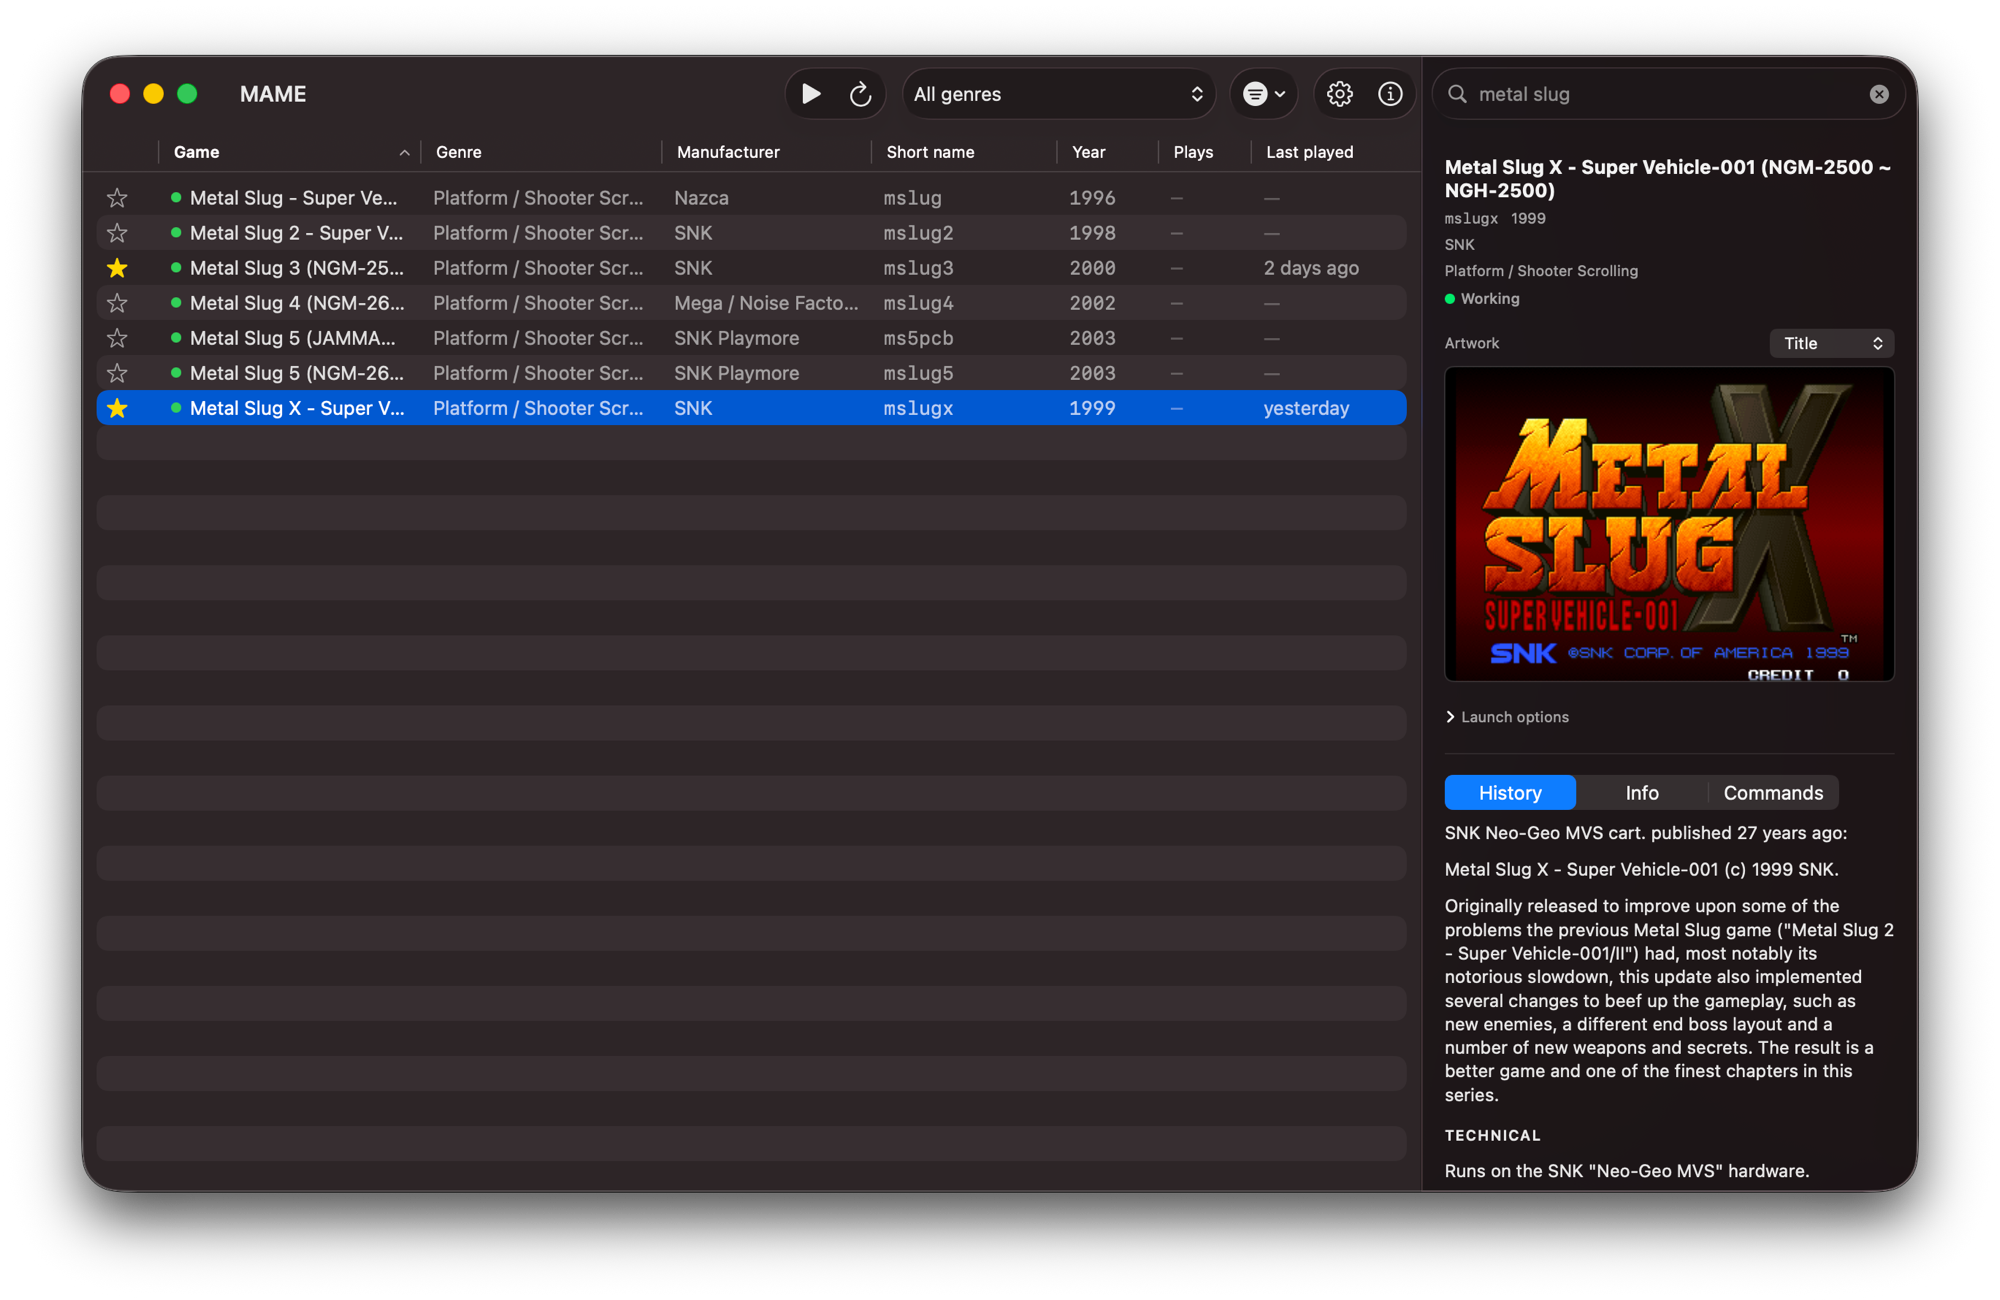
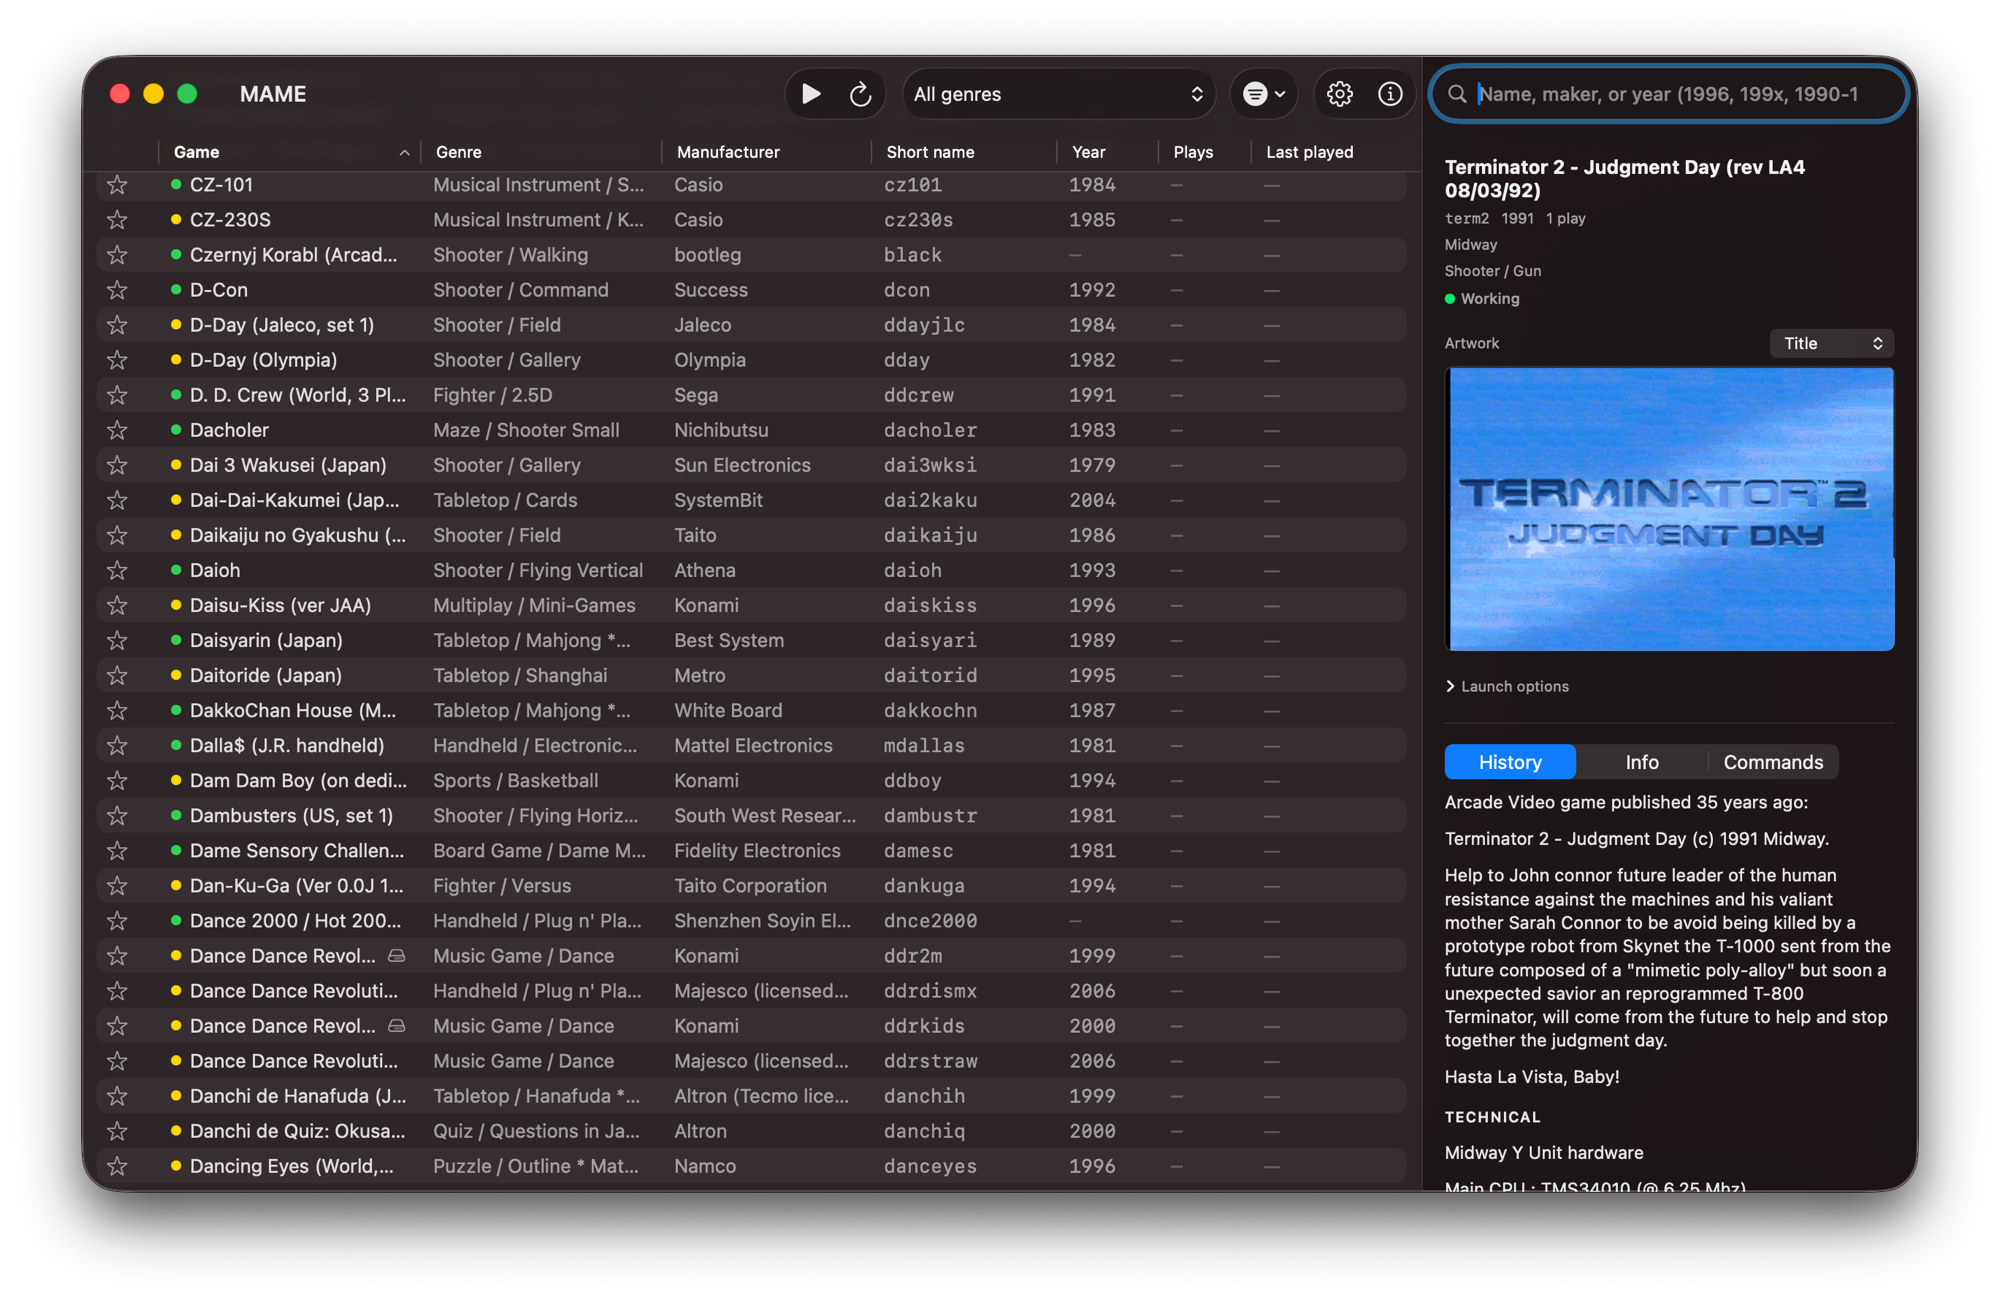
Bump version to 0.3.6, package as DMG, update README screenshot

Changed region(s): [[0.031, 0.1231, 0.961, 0.9231], [0.713, 0.0308, 0.961, 0.2154], [0.62, 0.1846, 0.682, 0.2154]]

diff --git a/MAMEFrontend/LibraryModel.swift b/MAMEFrontend/LibraryModel.swift
@@ -26,6 +26,9 @@ final class LibraryModel {
     private(set) var categories: [String] = []     // distinct genre categories (cached)
     private(set) var isLoading = false
     private(set) var errorMessage: String?
+    private(set) var enrichDone = 0
+    private(set) var enrichTotal = 0
+    var isEnriching: Bool { enrichTotal > 0 && enrichDone < enrichTotal }
     var launchError: LaunchFailure?
 
     // Reference-text state, keyed by tab
@@ -72,6 +75,34 @@ final class LibraryModel {
 
     // MARK: - Display list
 
+    /// A year query: exact ("1996"), decade ("199x" / "1990s"), or range
+    /// ("1990-1995"). Nil when the text isn't year-like, in which case the
+    /// search is a plain text match.
+    static func parseYearQuery(_ text: String) -> ClosedRange<Int>? {
+        let q = text.trimmingCharacters(in: .whitespaces).lowercased()
+
+        // Range: 1990-1995
+        let parts = q.split(separator: "-", maxSplits: 1).map(String.init)
+        if parts.count == 2,
+           let lo = Int(parts[0]), let hi = Int(parts[1]),
+           isYear(lo), isYear(hi), lo <= hi {
+            return lo...hi
+        }
+        // Decade: 199x / 1990s
+        if q.count == 4, q.hasSuffix("x"), let decade = Int(q.dropLast()) {
+            let base = decade * 10
+            if isYear(base) { return base...(base + 9) }
+        }
+        if q.count == 5, q.hasSuffix("s"), let base = Int(q.dropLast()), isYear(base), base % 10 == 0 {
+            return base...(base + 9)
+        }
+        // Exact: 1996
+        if q.count == 4, let year = Int(q), isYear(year) { return year...year }
+        return nil
+    }
+
+    private static func isYear(_ value: Int) -> Bool { value >= 1970 && value <= 2035 }
+
     /// Rebuilds `displayGames` from the current filters + sort. Called only when
     /// something actually changes — never per keystroke (search is debounced).
     @MainActor
@@ -83,8 +114,12 @@ final class LibraryModel {
         if hideNonGames      { result = result.filter { !$0.isNonGame } }
         if let category = genreFilter { result = result.filter { $0.category == category } }
         if !appliedSearch.isEmpty {
-            let needle = appliedSearch.lowercased()
-            result = result.filter { $0.searchKey.contains(needle) }
+            if let years = Self.parseYearQuery(appliedSearch) {
+                result = result.filter { years.contains($0.year) }
+            } else {
+                let needle = appliedSearch.lowercased()
+                result = result.filter { $0.searchKey.contains(needle) }
+            }
         }
         result.sort(using: sortOrder)
         displayGames = result
@@ -194,57 +229,87 @@ final class LibraryModel {
     private func enrichMeta(for names: [String], runner: MAMERunner) async {
         let chunkSize = 300
         var index = 0
+        enrichTotal = names.count
+        enrichDone = 0
+        defer { enrichTotal = 0; enrichDone = 0 }
+
         while index < names.count {
             let chunk = Array(names[index..<min(index + chunkSize, names.count)])
             index += chunkSize
             do {
                 let fetched = try await runner.meta(for: chunk)
-                guard !fetched.isEmpty else { continue }
-                metaCache.merge(fetched) { _, new in new }
-                applyMeta(fetched)
+                if !fetched.isEmpty {
+                    metaCache.merge(fetched) { _, new in new }
+                    applyMeta(fetched)
+                }
             } catch {
                 // Non-fatal.
             }
+            enrichDone = min(index, names.count)
         }
         saveMetaCache()
     }
 
-    /// Folds fetched metadata into games / displayGames / index in place.
+    /// Folds fetched metadata into games / displayGames / index. Games are
+    /// rebuilt through the initializer (not mutated) so precomputed keys —
+    /// notably `searchKey`, which includes the manufacturer — are regenerated.
     @MainActor
     private func applyMeta(_ fetched: [String: MachineMeta]) {
         func updated(_ g: Game) -> Game {
             guard let m = fetched[g.shortName] else { return g }
-            var n = g
-            if m.year > 0 { n.year = m.year }
-            if !m.manufacturer.isEmpty { n.manufacturer = m.manufacturer }
-            if !m.status.isEmpty { n.status = m.status }
-            n.isNonGame = m.nonGame
-            n.requiresDisk = m.requiresDisk
-            n.diskPresent = m.requiresDisk
-                ? isDiskPresent(shortName: n.shortName, parent: n.parent, diskNames: m.diskNames)
-                : false
-            return n
+            return Game(shortName: g.shortName,
+                        description: g.description,
+                        isUnknown: g.isUnknown,
+                        parent: g.parent,
+                        lastPlayed: g.lastPlayed,
+                        playCount: g.playCount,
+                        year: m.year > 0 ? m.year : g.year,
+                        genre: g.genre,
+                        manufacturer: m.manufacturer.isEmpty ? g.manufacturer : m.manufacturer,
+                        status: m.status.isEmpty ? g.status : m.status,
+                        isNonGame: m.nonGame,
+                        requiresDisk: m.requiresDisk,
+                        diskPresent: m.requiresDisk
+                            ? isDiskPresent(shortName: g.shortName, parent: g.parent,
+                                            diskNames: m.diskNames)
+                            : false)
         }
         games = games.map(updated)
         displayGames = displayGames.map(updated)
-        for (name, m) in fetched {
-            if var g = gamesByID[name] {
-                if m.year > 0 { g.year = m.year }
-                if !m.manufacturer.isEmpty { g.manufacturer = m.manufacturer }
-                if !m.status.isEmpty { g.status = m.status }
-                g.isNonGame = m.nonGame
-                g.requiresDisk = m.requiresDisk
-                g.diskPresent = m.requiresDisk
-                    ? isDiskPresent(shortName: name, parent: g.parent, diskNames: m.diskNames)
-                    : false
-                gamesByID[name] = g
-            }
+        for name in fetched.keys {
+            if let g = gamesByID[name] { gamesByID[name] = updated(g) }
         }
         // Newly-learned kinds/statuses may change a filtered view.
         if hideNonWorking || hideNonGames { recompute() }
     }
 
-    /// True if every required disk is found at `<path>/<machine or parent>/<disk>.chd`.
+    /// The best on-disk item to reveal for a game: its ROM archive, or its CHD
+    /// folder, searched across the ROM and CHD paths (falling back to the parent
+    /// set for clones that live inside a merged parent archive).
+    func fileURL(for game: Game) -> URL? {
+        let fm = FileManager.default
+        let paths = [romPath, chdPath].filter { !$0.isEmpty }
+        let names = [game.shortName] + (game.parent.map { [$0] } ?? [])
+
+        for path in paths {
+            let base = URL(fileURLWithPath: path)
+            for name in names {
+                // A CHD folder (kinst/kinst.chd) …
+                let dir = base.appendingPathComponent(name)
+                var isDir: ObjCBool = false
+                if fm.fileExists(atPath: dir.path, isDirectory: &isDir), isDir.boolValue {
+                    return dir
+                }
+                // … or a ROM archive.
+                for ext in ["zip", "7z"] {
+                    let archive = base.appendingPathComponent("\(name).\(ext)")
+                    if fm.fileExists(atPath: archive.path) { return archive }
+                }
+            }
+        }
+        return nil
+    }
+
     private func isDiskPresent(shortName: String, parent: String?, diskNames: [String]) -> Bool {
         guard !diskNames.isEmpty else { return true }
         let paths = [romPath, chdPath].filter { !$0.isEmpty }

diff --git a/MAMEFrontend/ContentView.swift b/MAMEFrontend/ContentView.swift
@@ -54,7 +54,7 @@ struct ContentView: View {
             content
                 .navigationTitle("MAME")
                 .toolbar { toolbarContent }
-                .searchable(text: $model.searchText, prompt: "Search games")
+                .searchable(text: $model.searchText, prompt: "Name, maker, or year (1996, 199x, 1990-1995)")
                 .inspector(isPresented: $showInspector) { detailPanel }
         }
         .background(WindowAccessor { win in
@@ -164,8 +164,27 @@ struct ContentView: View {
                 Text("No ROM archives matched machines this MAME build recognizes in \(romPath).")
             }
         } else {
-            gameTable
+            VStack(spacing: 0) {
+                gameTable
+                if model.isEnriching { enrichBanner }
+            }
         }
+    }
+
+    private var enrichBanner: some View {
+        HStack(spacing: 8) {
+            ProgressView(value: Double(model.enrichDone),
+                         total: Double(max(model.enrichTotal, 1)))
+                .progressViewStyle(.linear)
+                .frame(maxWidth: 160)
+            Text("Loading metadata… \(model.enrichDone) / \(model.enrichTotal)")
+                .font(.caption)
+                .foregroundStyle(.secondary)
+            Spacer()
+        }
+        .padding(.horizontal, 12)
+        .padding(.vertical, 6)
+        .background(.bar)
     }
 
     private var gameTable: some View {
@@ -187,6 +206,7 @@ struct ContentView: View {
                 HStack(spacing: 6) {
                     statusDot(game.status)
                     Text(game.description)
+                        .help(game.description)
                     if game.isClone { cloneBadge }
                     if game.requiresDisk {
                         Image(systemName: "internaldrive")
@@ -208,6 +228,7 @@ struct ContentView: View {
             TableColumn("Genre", value: \.genre) { game in
                 Text(game.genre.isEmpty ? "—" : game.genre)
                     .foregroundStyle(game.genre.isEmpty ? .tertiary : .secondary)
+                    .help(game.genre)
             }
             .width(min: 120, ideal: 180)
             .customizationID("genre")
@@ -215,6 +236,7 @@ struct ContentView: View {
             TableColumn("Manufacturer", value: \.manufacturer) { game in
                 Text(game.manufacturer.isEmpty ? "—" : game.manufacturer)
                     .foregroundStyle(game.manufacturer.isEmpty ? .tertiary : .secondary)
+                    .help(game.manufacturer)
             }
             .width(min: 100, ideal: 150)
             .customizationID("manufacturer")
@@ -261,6 +283,11 @@ struct ContentView: View {
                 Button(model.isFavorite(game) ? "Remove from Favorites" : "Add to Favorites") {
                     model.toggleFavorite(game)
                 }
+                Divider()
+                Button("Reveal in Finder") { revealInFinder(game) }
+                    .disabled(model.fileURL(for: game) == nil)
+                Button("Copy Short Name") { copyToPasteboard(game.shortName) }
+                Button("Copy Name") { copyToPasteboard(game.description) }
             }
         } primaryAction: { ids in
             if let id = ids.first, let game = model.game(id: id) {
@@ -615,6 +642,17 @@ struct ContentView: View {
             if let found = firstSearchField(in: sub) { return found }
         }
         return nil
+    }
+
+    private func revealInFinder(_ game: Game) {
+        guard let url = model.fileURL(for: game) else { return }
+        NSWorkspace.shared.activateFileViewerSelecting([url])
+    }
+
+    private func copyToPasteboard(_ string: String) {
+        let pasteboard = NSPasteboard.general
+        pasteboard.clearContents()
+        pasteboard.setString(string, forType: .string)
     }
 
     private func syncConfig() {

diff --git a/MAMEFrontend/Game.swift b/MAMEFrontend/Game.swift
@@ -58,7 +58,7 @@ struct Game: Identifiable, Hashable {
         self.diskPresent = diskPresent
 
         self.sortTitle = description.lowercased()
-        self.searchKey = (description + " " + shortName).lowercased()
+        self.searchKey = (description + " " + shortName + " " + manufacturer).lowercased()
         if genre.isEmpty {
             self.category = ""
         } else {